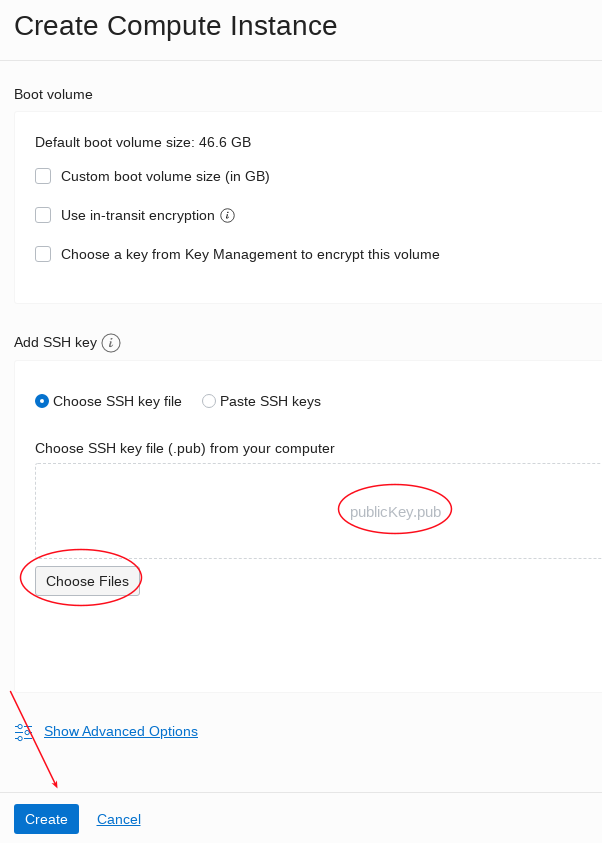
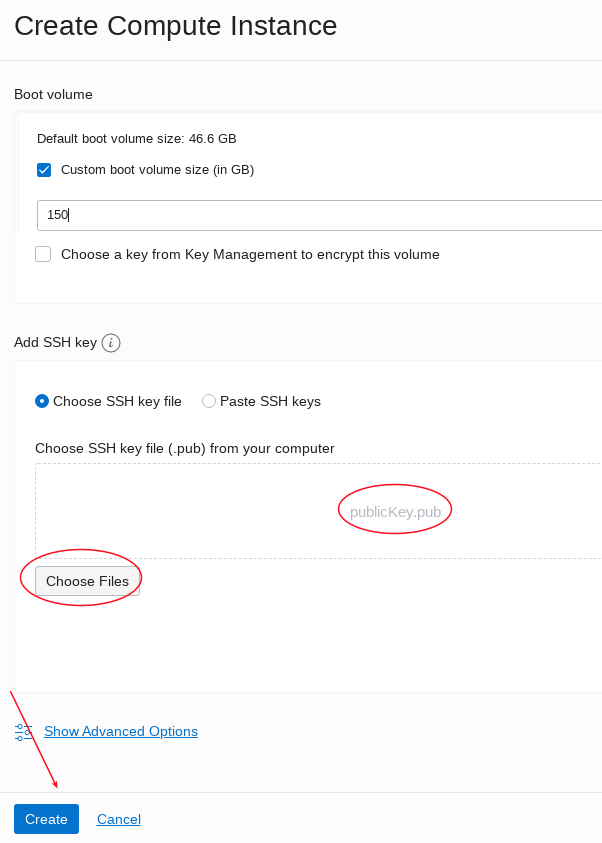
updates

Changed region(s): [[0.0598, 0.1542, 0.4485, 0.2776]]

diff --git a/workshops/dbcs-dba-oci/2.md b/workshops/dbcs-dba-oci/2.md
@@ -61,6 +61,71 @@ ssh -i privateKey opc@129.146.162.124
 sudo su - oracle
 sqlplus sys/<password> as sysdba
 select * from v$encryption_wallet;
+exit
 ```
 
 ![](images/2/005.png " ")
+
+- Set the master encryption key.  Log into the source database server and rename the existing auto login key out of the way.
+
+```
+mv /opt/oracle/dcs/commonstore/wallets/tde/orcl_phx273/cwallet.sso ..
+```
+
+- Next enter the following commands.  You will log into the database with sys and create new password and auto login keys.  Use the database system password for everything.
+```
+sqlplus sys/<password> as sysdba
+administer key management set keystore close;
+
+keystore altered.
+
+SELECT wrl_parameter, status, wallet_type FROM v$encryption_wallet;
+
+WRL_PARAMETER
+---------------------------------------------------
+STATUS			       WALLET_TYPE
+------------------------------ --------------------
+/opt/oracle/dcs/commonstore/wallets/tde/orcl_phx273/
+CLOSED			       UNKNOWN
+CLOSED			       UNKNOWN
+CLOSED			       UNKNOWN
+CLOSED			       UNKNOWN
+
+administer key management set keystore open identified by <password>;
+keystore altered.
+
+alter session set container=pdb1;
+Session altered.
+
+administer key management set keystore open identified by <password>;
+keystore altered.
+
+administer key management set key identified by <password> with backup;
+keystore altered.
+
+SELECT wrl_parameter, status, wallet_type FROM v$encryption_wallet;
+
+WRL_PARAMETER
+---------------------------------------------------
+STATUS			       WALLET_TYPE
+------------------------------ --------------------
+
+OPEN			       PASSWORD
+
+alter session set container=cdb$root;
+Session altered.
+
+administer key management create auto_login keystore from keystore '/opt/oracle/dcs/commonstore/wallets/tde/orcl_phx273' identified by <password>;
+keystore altered.
+
+shutdown immediate;
+startup
+
+SELECT * FROM v$encryption_wallet
+
+WRL_TYPE   WRL_PARAMETER					   				        STATUS	WALLET_TYPE	  WALLET_OR KEYSTORE FULLY_BAC	CON_ID
+FILE	   	/opt/oracle/dcs/commonstore/wallets/tde/orcl_phx273/    OPEN 	AUTOLOGIN	  SINGLE	 NONE	  NO		     1
+FILE								   					            OPEN 	AUTOLOGIN	  SINGLE	 UNITED   NO		     2
+FILE								   					            OPEN 	AUTOLOGIN	  SINGLE	 UNITED   NO		     3
+```
+

diff --git a/workshops/dbcs-dba-oci/1.md b/workshops/dbcs-dba-oci/1.md
@@ -119,7 +119,7 @@ ssh-keygen
 
 	![](images/1/021.png " ")
 
-- Select the public ssh key you created above (publicKey.pub) and then select **Create**.  The image will get created in just a minute or two.
+- Be sure to increase your book volume size to 150G, select the public ssh key you created above (publicKey.pub) and then select **Create**.  The image will get created in just a minute or two.
 
 	![](images/1/022.png " ")
 
